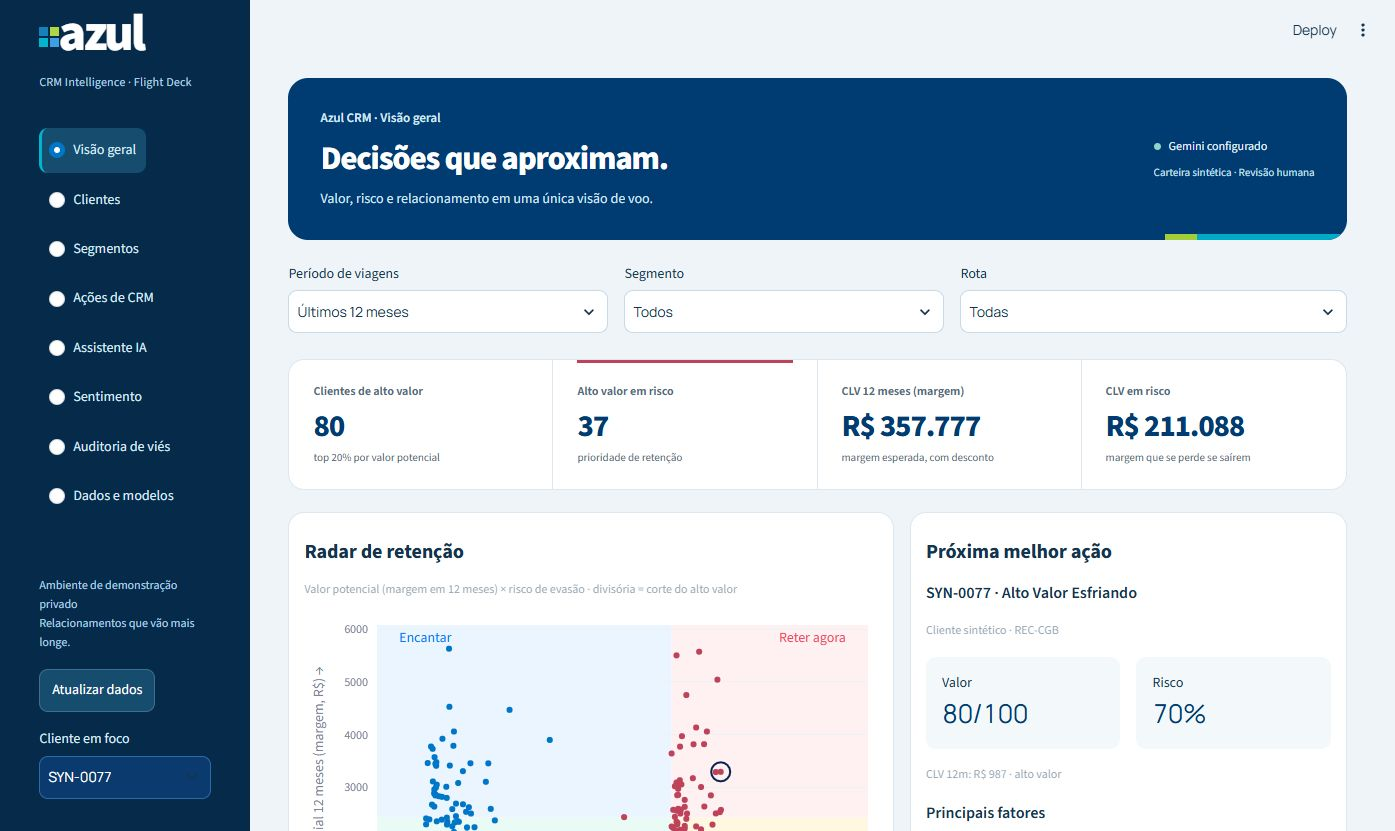
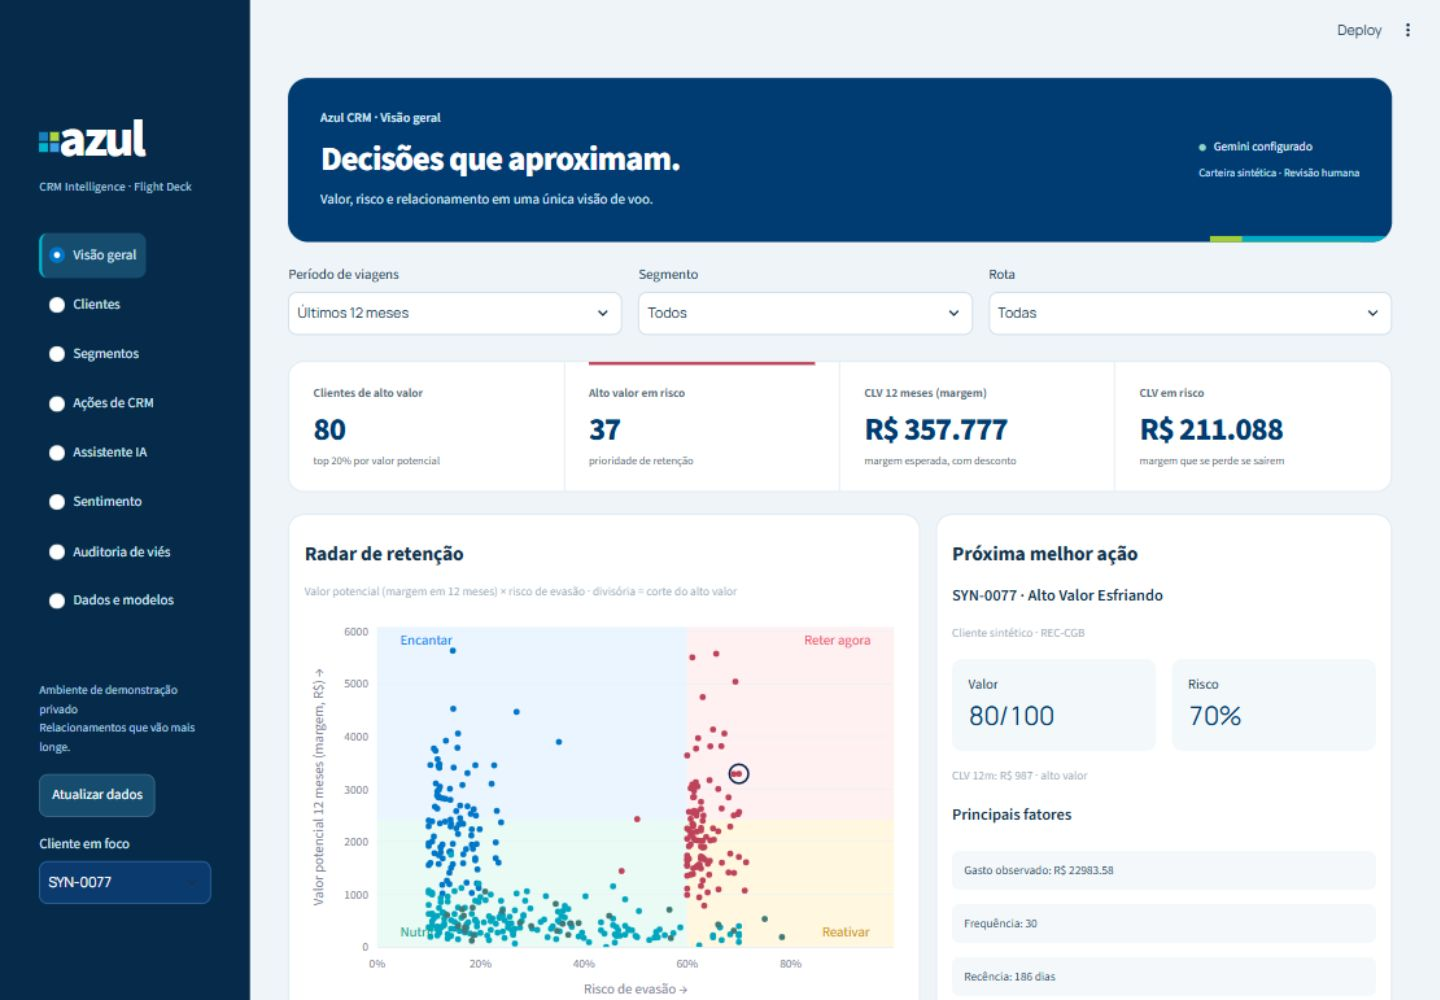
fix: ajusta navegacao recolhida e valida layouts responsivos

diff --git a/frontend/assets/theme.css b/frontend/assets/theme.css
@@ -50,3 +50,6 @@ button:focus-visible,a:focus-visible,input:focus-visible,textarea:focus-visible{
 
 .st-key-radar-panel,.st-key-action-panel,.st-key-queue-panel,.st-key-copilot-panel{background:#fff!important;border-color:var(--az-line)!important;border-radius:var(--az-radius)!important;transition:border-color .2s ease}
 .flight-masthead:after{transition:transform .3s ease}.flight-masthead:hover:after{transform:translateX(-12px)}
+
+/* Não reservar largura para a navegação nativa quando ela estiver recolhida. */
+[data-testid="stSidebar"][data-collapsed="true"]{min-width:0!important;max-width:0!important;width:0!important}

diff --git a/docs/DESIGN.md b/docs/DESIGN.md
@@ -28,4 +28,4 @@ As referências são guias e ferramentas distintos, não um conjunto de bibliote
 Capturas de antes/depois em `docs/evidencias/design/`. A revisão verifica legibilidade, contraste, cabeçalhos, estados e funcionamento das páginas. As imagens documentam a aparência real, não um mockup gerado.
 
 
-Revisão estática taste-skill: 0 falhas, 2 avisos de `box-shadow`. Ambos desenham segmentos sólidos do mosaico de marca e da faixa de cor, sem blur ou sombra de elevação. Inspeção real do navegador: fonte Manrope carregada, largura CSS de 1395 px e ausência de overflow horizontal. Não foi executada emulação de dispositivo móvel; os breakpoints foram implementados e revisados no CSS.
+Revisão estática taste-skill: 0 falhas, 2 avisos de `box-shadow`. Ambos desenham segmentos sólidos do mosaico de marca e da faixa de cor, sem blur ou sombra de elevação. Inspeção real do navegador: fonte Manrope carregada, largura CSS de 1395 px e ausência de overflow horizontal. Depois dessa primeira inspeção, foram testados viewports reais de 390×844, 768×1024 e 1440×1000. Todos ficaram sem overflow horizontal. O teste em 768 px revelou uma faixa vazia causada pela largura mínima do menu recolhido; o seletor `data-collapsed=true` foi corrigido e o conteúdo passou a começar em x=0. As capturas mobile/tablet/desktop estão no diretório de evidências. O override de viewport foi removido ao terminar.
